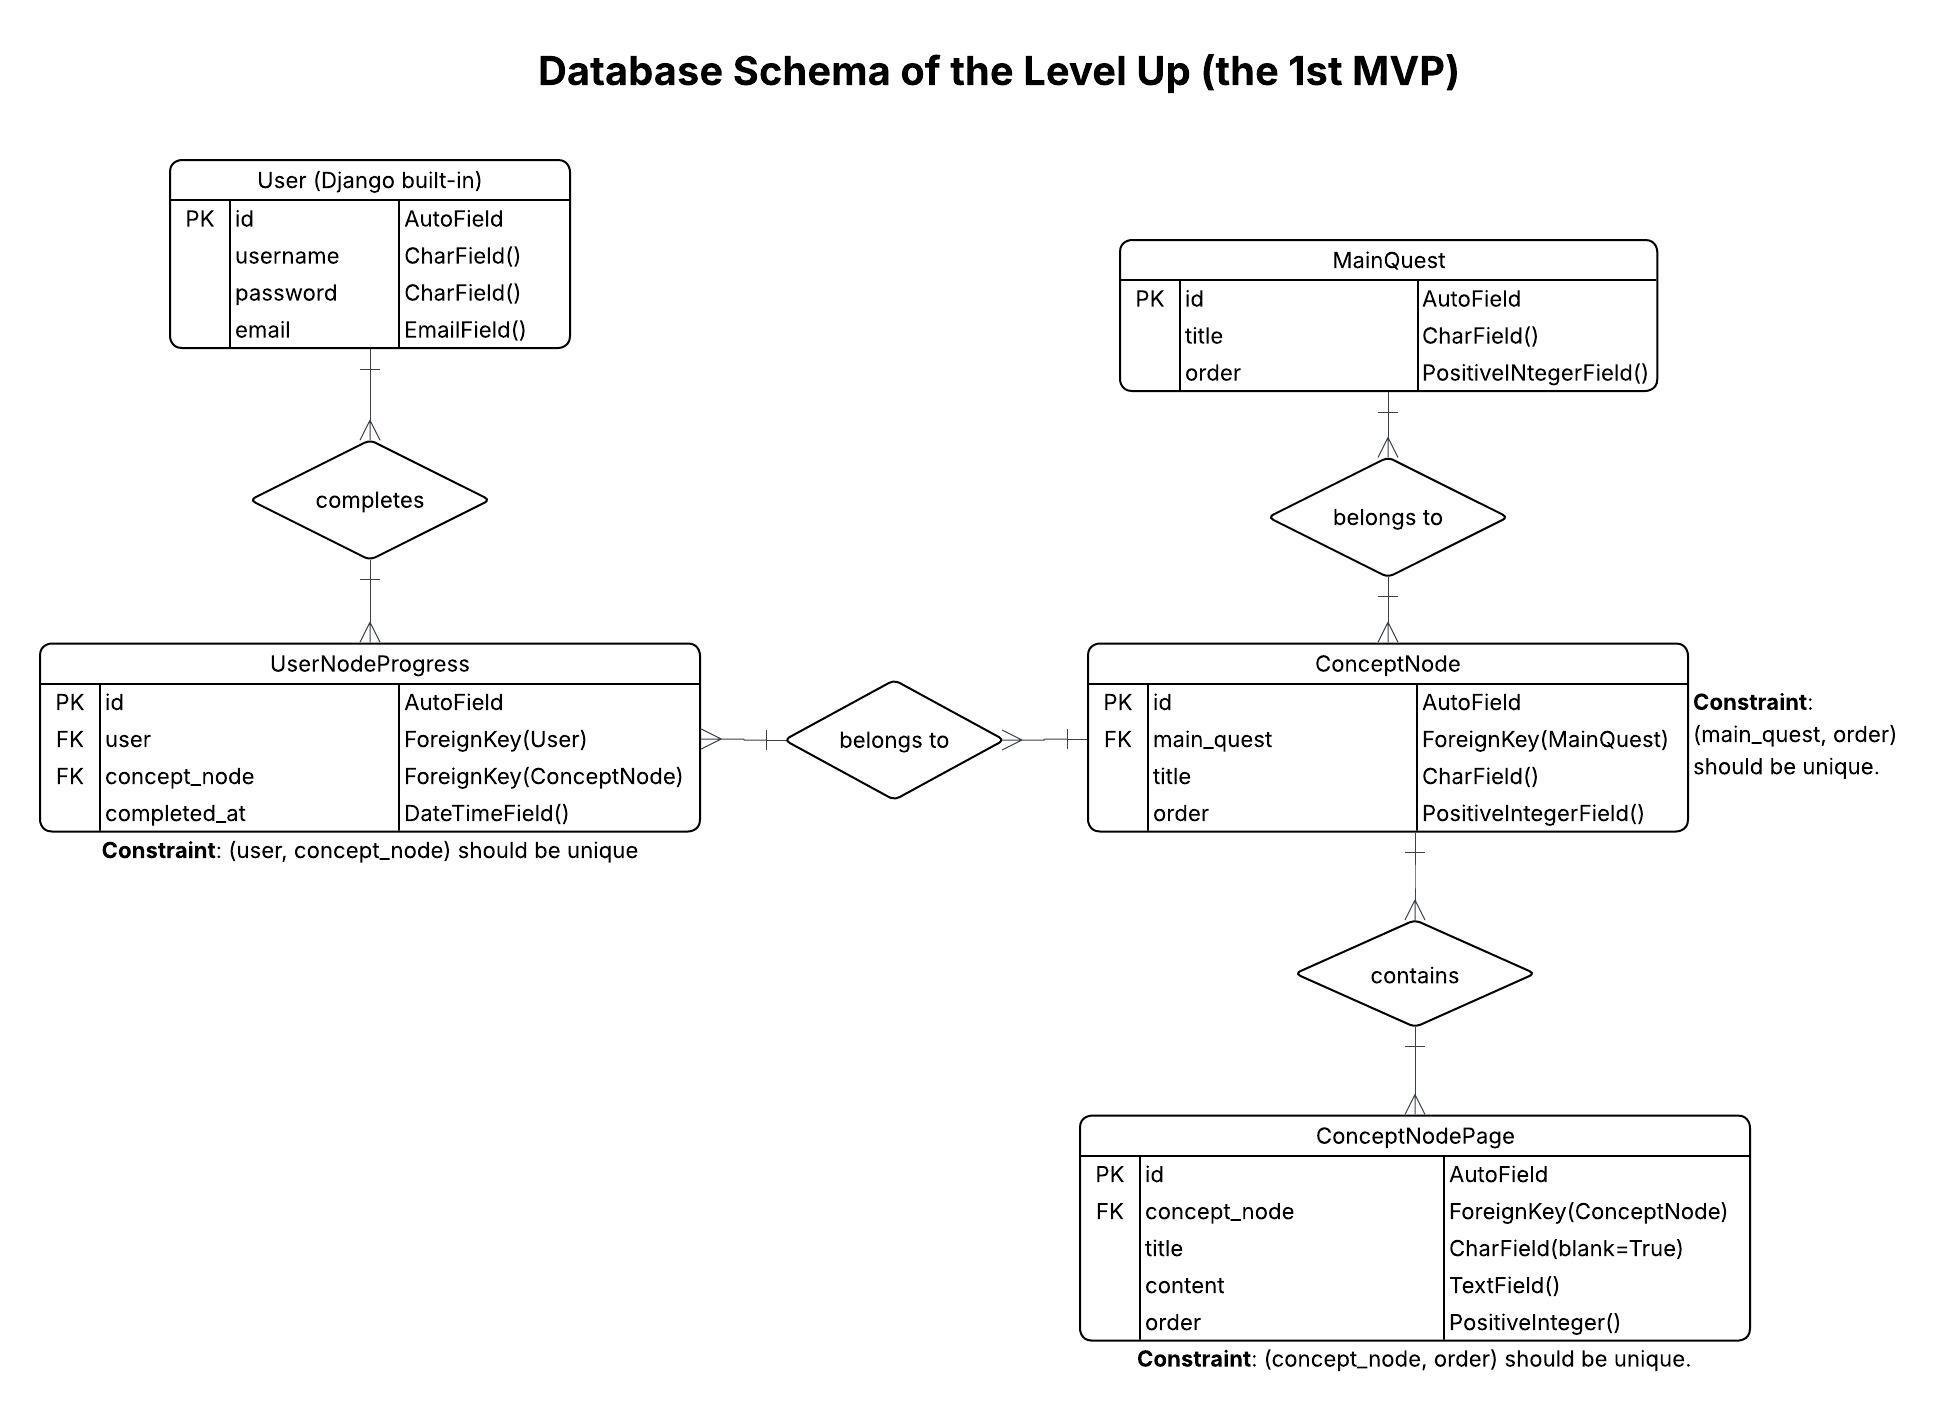
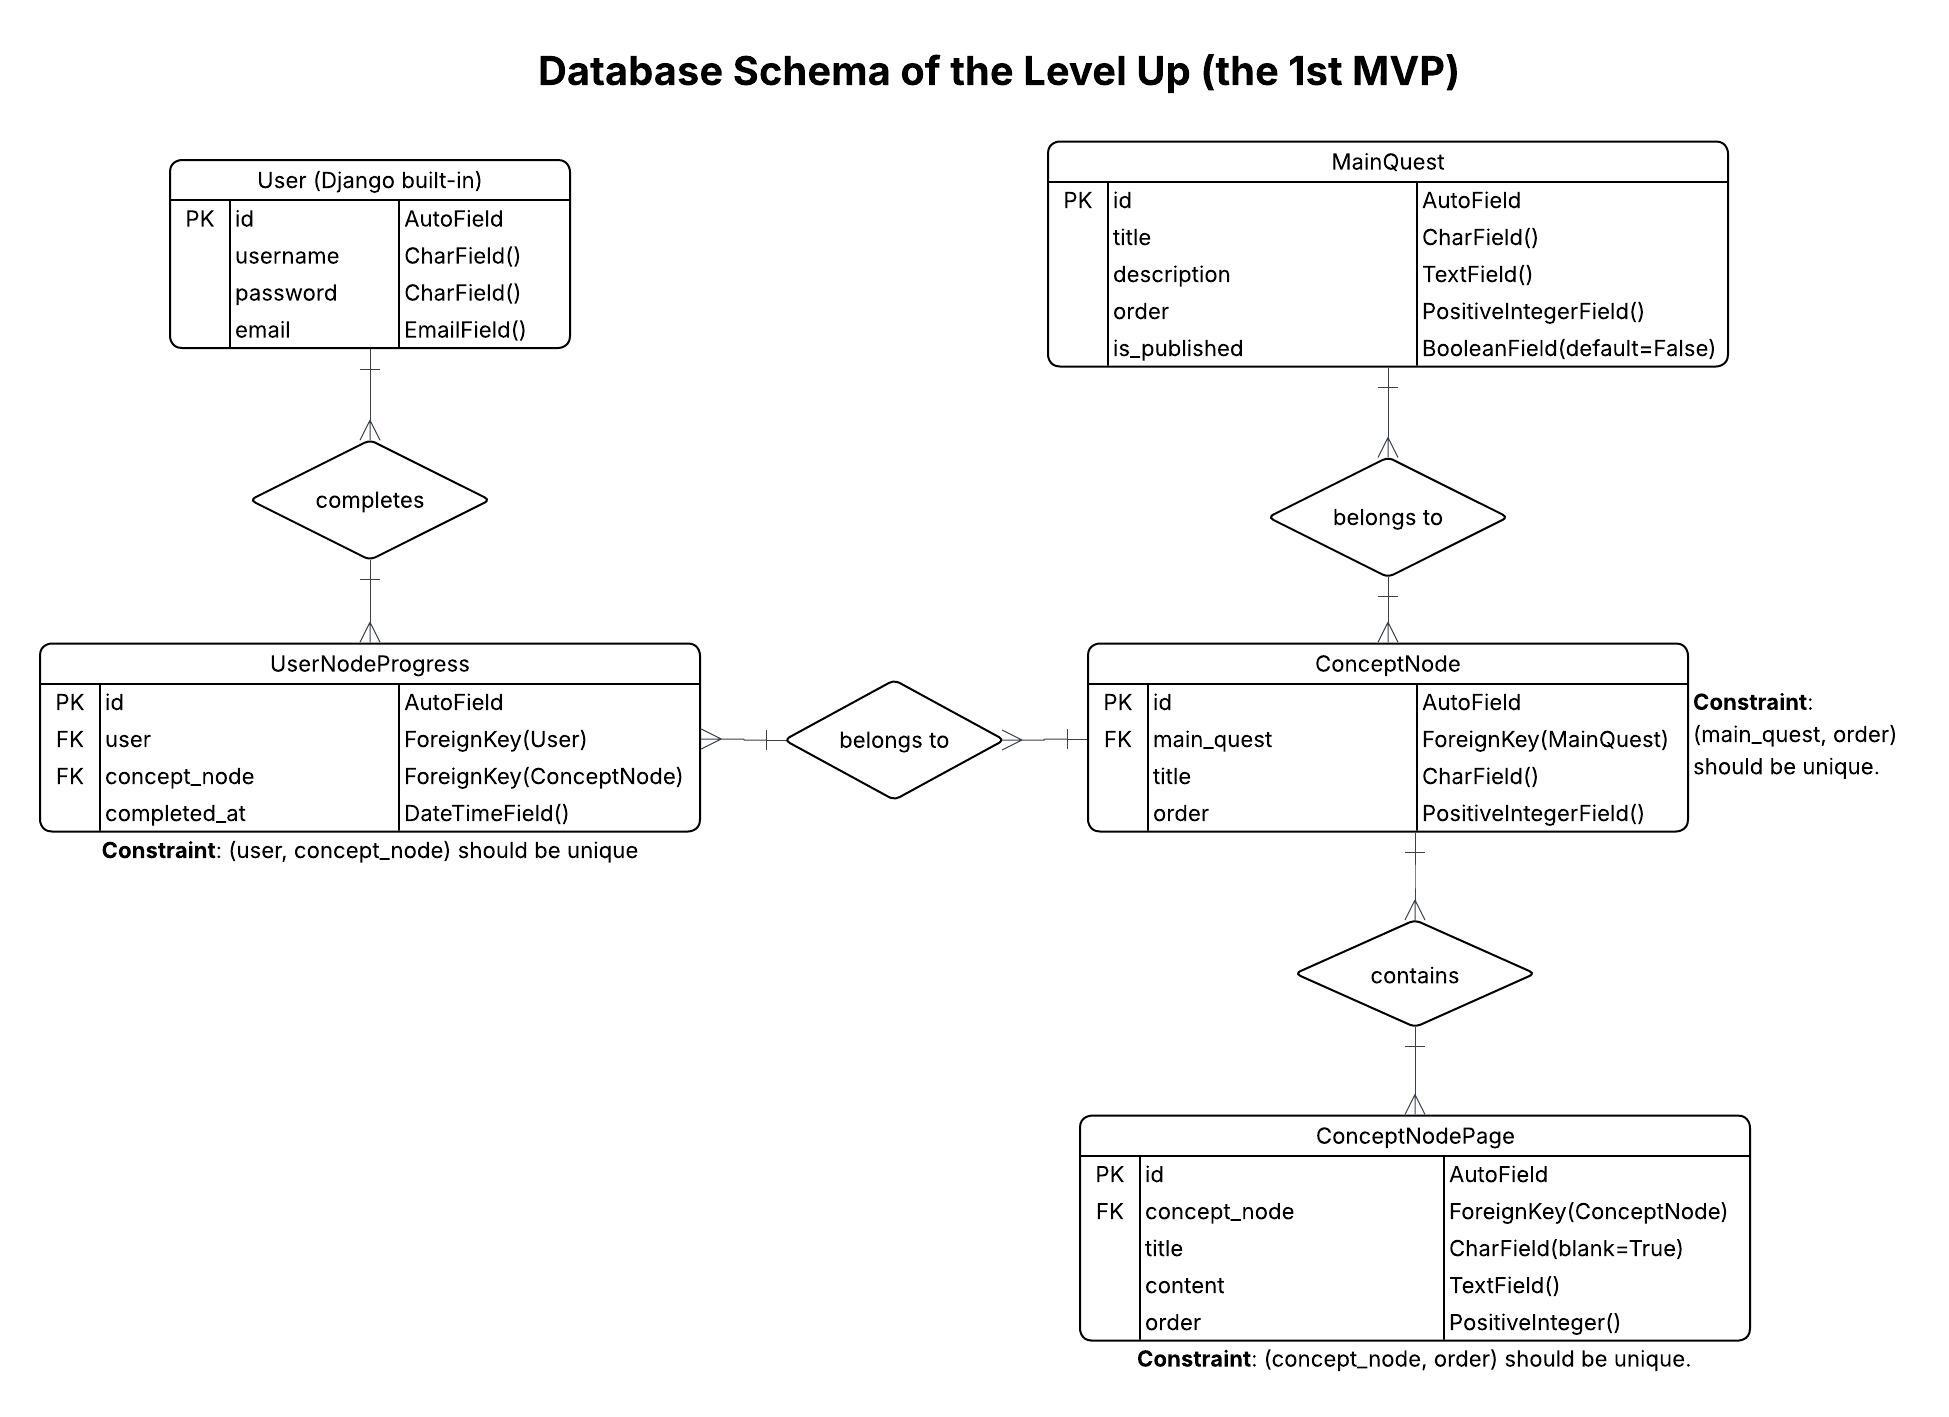
feat: add publication state to MainQuest and updated docs
Adds 'is_published' field in MainQuest model, and the derived-state-logic file inludes all info about derived states and the Daily Quest.

Changed region(s): [[0.5233, 0.0932, 0.8928, 0.2795]]

diff --git a/quests/migrations/0002_mainquest_is_published.py b/quests/migrations/0002_mainquest_is_published.py
@@ -1,0 +1,18 @@
+# Generated by Django 6.0 on 2025-12-23 05:04
+
+from django.db import migrations, models
+
+
+class Migration(migrations.Migration):
+
+    dependencies = [
+        ('quests', '0001_initial'),
+    ]
+
+    operations = [
+        migrations.AddField(
+            model_name='mainquest',
+            name='is_published',
+            field=models.BooleanField(default=False),
+        ),
+    ]

diff --git a/quests/models.py b/quests/models.py
@@ -5,6 +5,7 @@ class MainQuest(models.Model):
     title = models.CharField(max_length=255)
     description = models.TextField(blank=True)
     order = models.PositiveIntegerField(unique=True)
+    is_published = models.BooleanField(default=False)
 
     class Meta: # Ensures MainQuests are ordered by 'order' field by default
         ordering = ['order']

diff --git a/docs/derived-state-logic.md b/docs/derived-state-logic.md
@@ -1,5 +1,330 @@
 <h1>Derived State Logic (MVP-1)</h1>
 
+# 1. Core Principle (Foundational)
+
+    Only irreversible facts are stored. Everything else is derived.
+
+<b>Stored fact:</B>
+
+- A user has completed a ConceptNode (UserNodeProgress)
+
+<B>Derived states:</B>
+
+- completed ConceptNode
+
+- pending ConceptNode
+
+- past / current / future MainQuest
+
+- visible / non-visible MainQuest (per user)
+
+- Daily Quest (Focus Pool + Reinforcement Pool)
+
+
+No derived state is persisted in the database.
+
+This approach ensures:
+
+- no duplicated state
+
+- no inconsistent flags
+
+- clean scalability for future maps and progression rules
+
+-----------------------------
+
+# 2. ConceptNode States
+## 2.1 Completed Node
+
+<B>Definition</B>
+A ConceptNode is completed <U>iff</U>:
+
+There exists a <B>UserNodeProgress</B> row for <B>(user, concept_node)</B>
+
+<B>Important properties</B>
+- Completion is irreversible
+
+- Completed nodes remain accessible forever
+
+- Completed nodes can be reopened and reread
+
+- Completed nodes may appear in the Reinforcement Pool
+
+This is the <B>only stored learning fact.</B>
+
+-------------------------------------------------------
+
+## 2.2 Pending Node (Exactly One)
+
+<B>Definition</B>
+The pending node is:
+
+    The first ConceptNode (by order) in the current MainQuest that the user has NOT completed.
+
+<B>Key rules</B>
+
+- There is at most one pending node
+
+- If user has completed nothing → first node is pending
+
+- If user completed everything → no pending node exists
+
+<B>Behavior</B>
+
+- Appears at the top of the Focus Pool
+
+- Has a “Mark as Understood” action
+
+- Completion of this node unlocks the next node
+
+
+-------------------------------------------------------
+
+# 3. MainQuest — (Publication vs Visibility)
+## 3.1 Publication (is_published)
+
+"is_published" is a <B>content-level, global flag</B>.
+
+- **is_published = False**
+
+    - MainQuest is considered work-in-progress
+    - ignored by all progression logic
+    - non-existent from the user’s perspective
+
+- **is_published = True**
+
+    - MainQuest is eligible for progression logic
+
+    - does not automatically imply visibility
+
+---------------------------------------------------------
+
+## 3.2 User-Facing Visibility (Derived)
+
+Visibility is not stored.
+
+For a given user, a published MainQuest can be in exactly one of the following derived states:
+
+---------------------------------------------------
+
+### 3.2.1 Past/Completed MainQuest
+
+- all ConceptNodes are completed by the user
+
+- no pending ConceptNode exists
+
+<B>Behavior:</B>
+
+- visible to the user
+
+- fully accessible for re-reading
+
+-------------------------------------------------------
+
+### 3.2.2 Current/Actice MainQuest
+
+- not fully completed
+
+- contains the user’s pending ConceptNode
+
+<B>Behavior:</B>
+
+- visible to the user
+
+- active progression state
+
+<B>Invariant:</B>
+
+- Exactly one Current MainQuest exists per user.
+
+------------------------------------------------------
+
+### 3.2.3 Future MainQuest
+
+- published
+
+- ordered after the Current MainQuest
+
+- user has completed zero ConceptNodes in it
+
+<B>Behavior:</B>
+
+- ***non-visible*** to the user
+
+- exists logically but hidden
+
+-------------------------------------------------------
+
+## 3.3 Visibility Rule (Authoritative)
+
+A MainQuest is visible to a user if and only if:
+
+- is_published = True, and
+
+- it is either:
+
+    - a Past MainQuest, or
+
+    - the Current MainQuest
+
+-------------------------------------------------------
+
+# 4. ConceptNode Visibility
+
+ConceptNode visibility is inherited from its MainQuest:
+
+- if MainQuest is non-visible → all ConceptNodes are non-visible
+
+- if MainQuest is visible:
+
+    - completed nodes are re-readable
+
+    - the pending node is actionable
+
+    - future nodes may be shown as locked (frontend decision)
+
+No visibility flags are stored on ConceptNode.
+
+-------------------------------------------------------
+
+
+
+# 5. MainQuest Progression (Critical)
+<b>MainQuest is considered completed if:</B>
+
+- ALL its ConceptNodes are completed by the user
+
+<B>Current MainQuest:</B>
+
+- First MainQuest (in order) that is NOT fully completed
+
+- Inferred, never stored
+
+This ensures:
+
+- Strict linear progression,
+
+- No ambiguity,
+
+- No partial quest hopping in MVP-1.
+
+-----------------------------------------------------
+
+# 6. Daily Quest 
+
+It’s a learning orchestration mechanism, which is different, and unique than the Daily Quests found in the other learning platforms.
+
+It consists of two Pools:
+- Focus Pool, and 
+- Reinforcement Pool.
+
+------------------------------------------------
+
+## 6.1 Focus Pool (Structured Learning)
+
+<B>Definition</B>
+An ordered list of ConceptNodes consisting of:
+
+    1. The pending node (least dependent)
+
+    2. The next consecutive nodes in the current MainQuest
+
+<B>Rules</B>
+
+- Ordered from least → most dependent
+
+- Size depends on completion ratio in current MainQuest
+
+- All nodes link to written explanations (Markdown)
+
+- Completing the pending node may:
+
+    - unlock the next node
+
+    - change tomorrow’s Focus Pool
+
+<B>Purpose</B>
+
+- Forward progress
+
+- Conceptual continuity
+
+- No randomness
+
+-----------------------------------------------
+
+## 6.2 Reinforcement Pool (Retention)
+
+<B>Definition</B>
+A list of ConceptNodes:
+
+- Randomly selected from the already completed nodes. That is, completed nodes from the current/active MainQuest and all the completed/past MainQuests.
+
+<B>Rules</B>
+
+- Never includes pending node
+
+- Never includes non-visible nodes
+
+- Size also depends on completion ratio
+
+- Links to written explanations
+
+<b>Purpose</B>
+
+- Reinforce earlier concepts
+
+- Prevent forgetting
+
+- Encourage spaced repetition
+
+-------------------------------------------------------
+
+# 7. Daily Quest Lifecycle
+
+<B>If Daily Quest is completed:</B>
+
+- Streak increments by 1
+
+- Tomorrow’s Daily Quest is newly generated
+
+<B>If Daily Quest is NOT completed:</B>
+
+- Streak resets to 0
+
+- Tomorrow shows the same Daily Quest
+
+This creates:
+
+- Soft pressure
+
+- No punishment
+
+- Psychological continuity
+
+------------------------------------------------------
+
+# 8. System Invariants (Must Always Hold)
+
+- No unpublished MainQuest participates in progression
+
+- Exactly one Current MainQuest per user
+
+- At most one pending ConceptNode per MainQuest per user
+
+- Focus Pool never violates ConceptNode order
+
+- Reinforcement Pool contains only completed nodes
+
+- Visibility is always derived, never stored
+
+Any violation indicates a logic error.
+
+------------------------------------------------------
+------------------------------------------------------
+
+# Derived State Functions
+
 <h3>1. Getting Concept Nodes Completed By The User - <I>get_completed_nodes(user)</I></h3>  
 
 A ConceptNode is considered "completed" for a user if and only if
@@ -19,6 +344,6 @@ there exists a UserNodeProgress entry for that (user, concept_node) pair.
        - tables are empty
 
 - This logic:
-    - works with empty databases
+    - works, even with empty databases
     - returns an empty queryset for new users
     - is used as the foundation for all progression rules

diff --git a/docs/schema.md b/docs/schema.md
@@ -14,7 +14,6 @@
 ## Entity-Relationship Model
 <figure> 
 <img src="Database Schema of the Level Up (the 1st MVP).jpeg">
-    <p>There is just one change which is not in the above given image, and the change is that, in the MainQuest table there is also a "description" field which is of the TextField() data type. </p>
 </figure>
 
 ## Relationship Explanations
